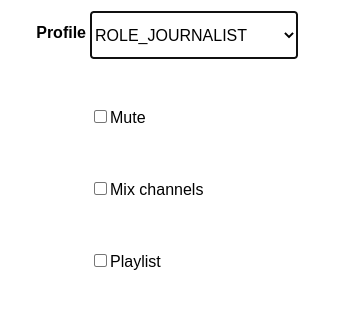
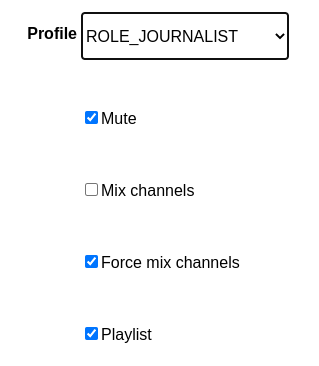
journalist force mix channels

diff --git a/_en/admin-journalist.md b/_en/admin-journalist.md
@@ -15,6 +15,8 @@ Mute, this option enables the mute button in the web UI
 
 Mix channels, this option enables the mix channel button in the web UI. Sometimes you need to connect an USB audio mixer with 2 mono microphones, 1 on left channel and 1 on right channels. With this option you can send both audios on both channels
 
+Force mix channels, the mix channels option is activated by default. If user has access to the mix channels button can disable it.
+
 Playlist, with this option enabled the user can add local audio file as part of the live connection
 
 |![](/en/admin-journalist/general.png)|
